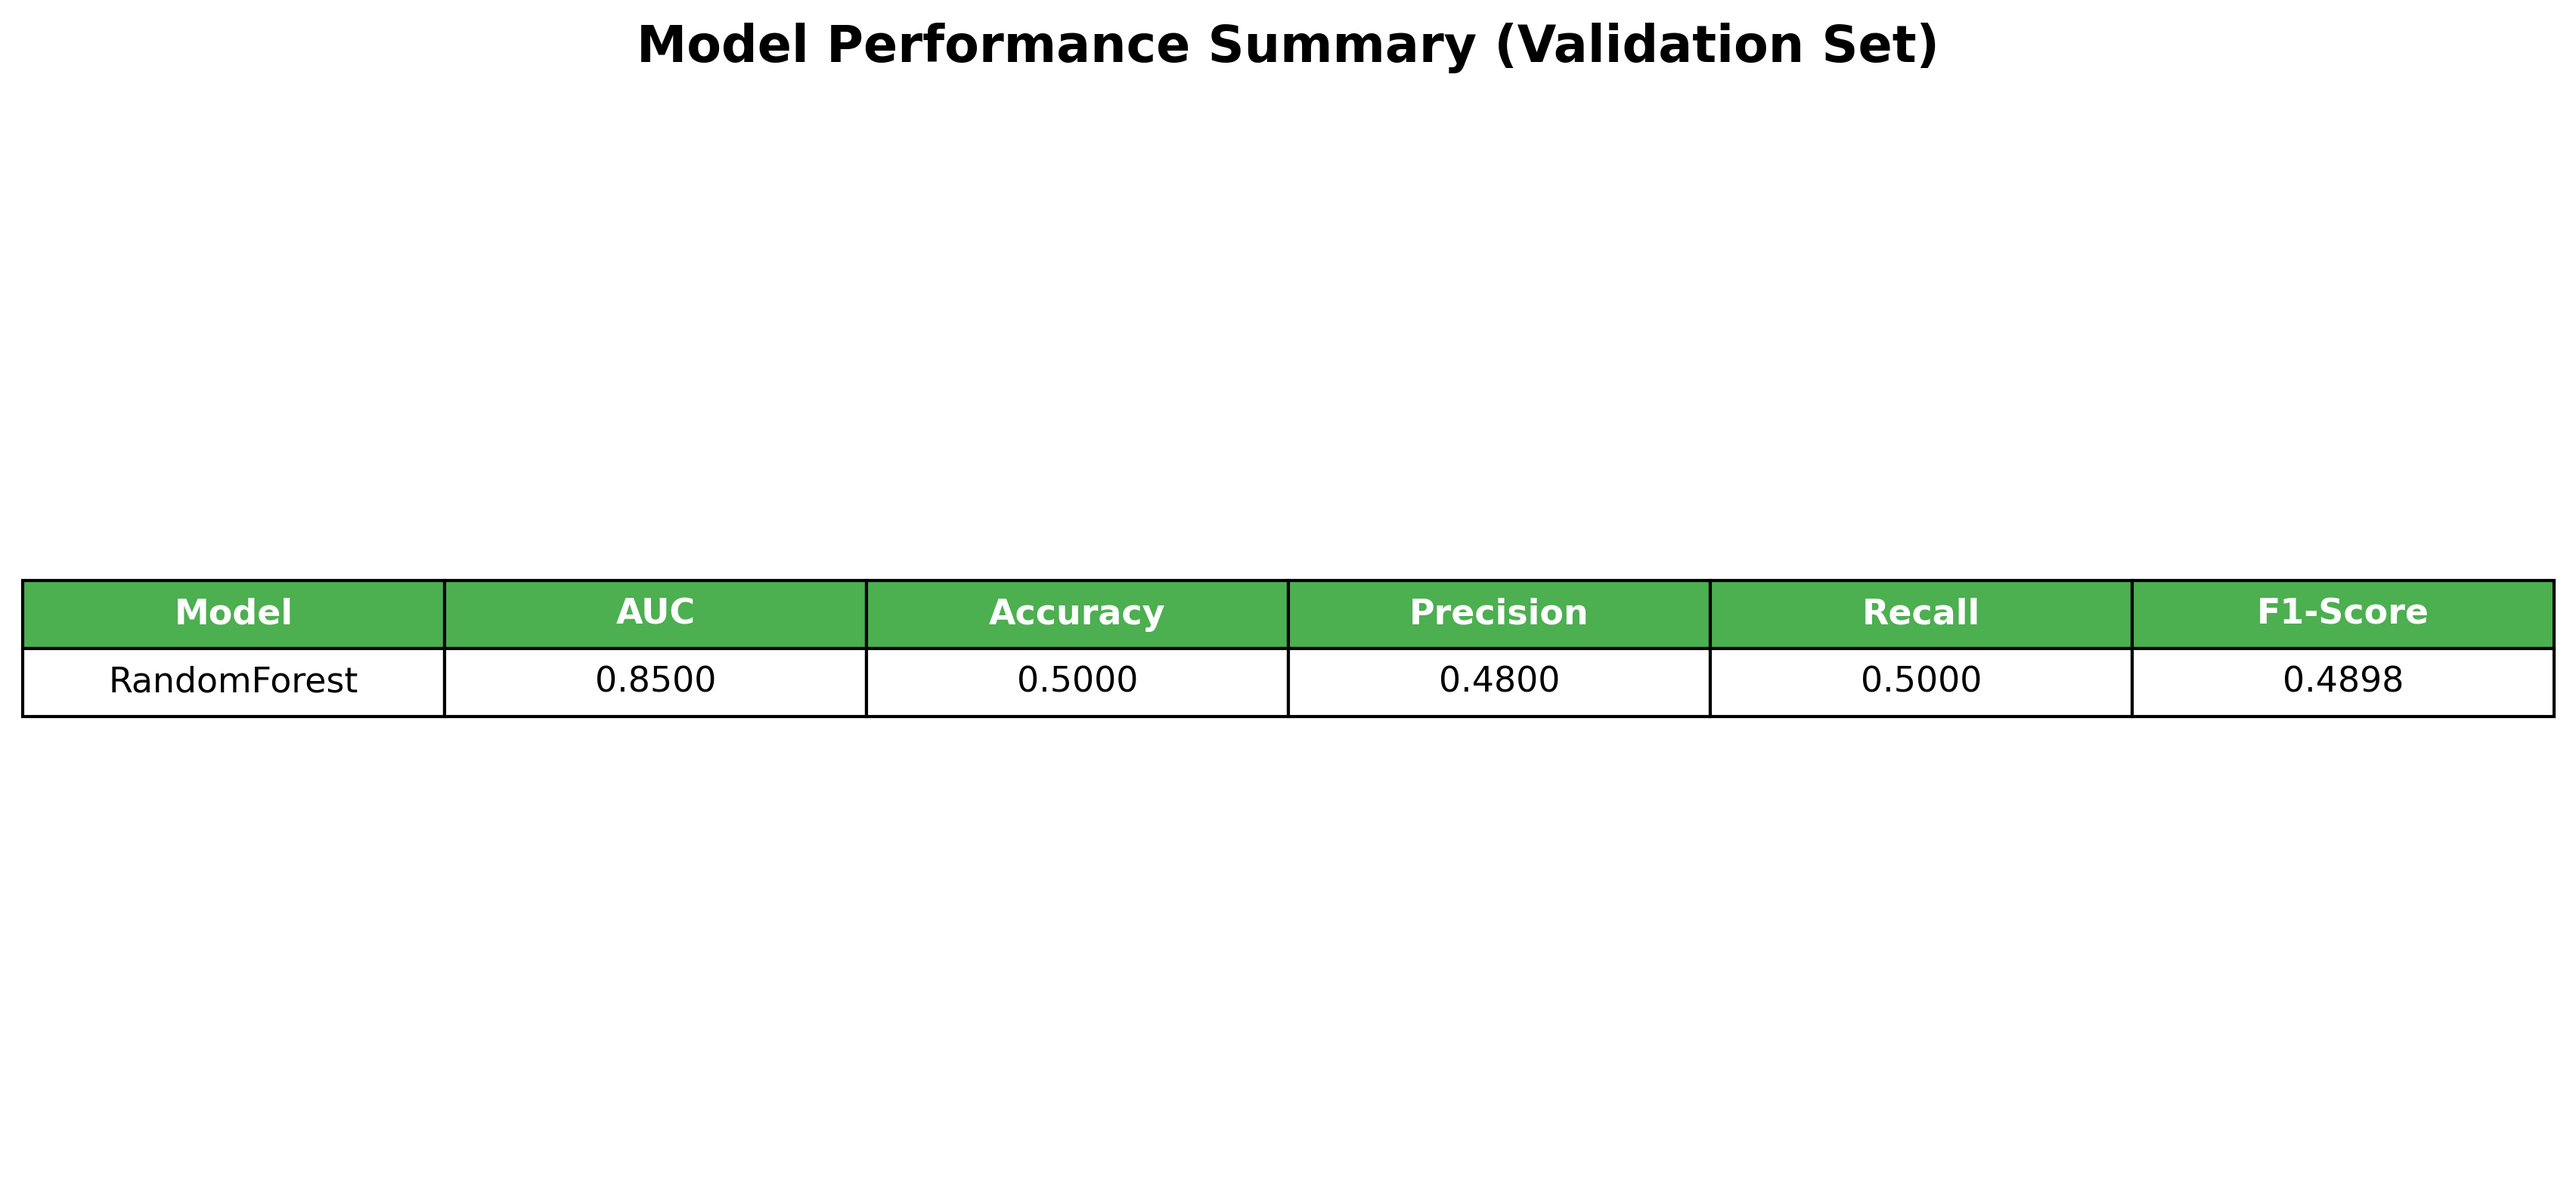
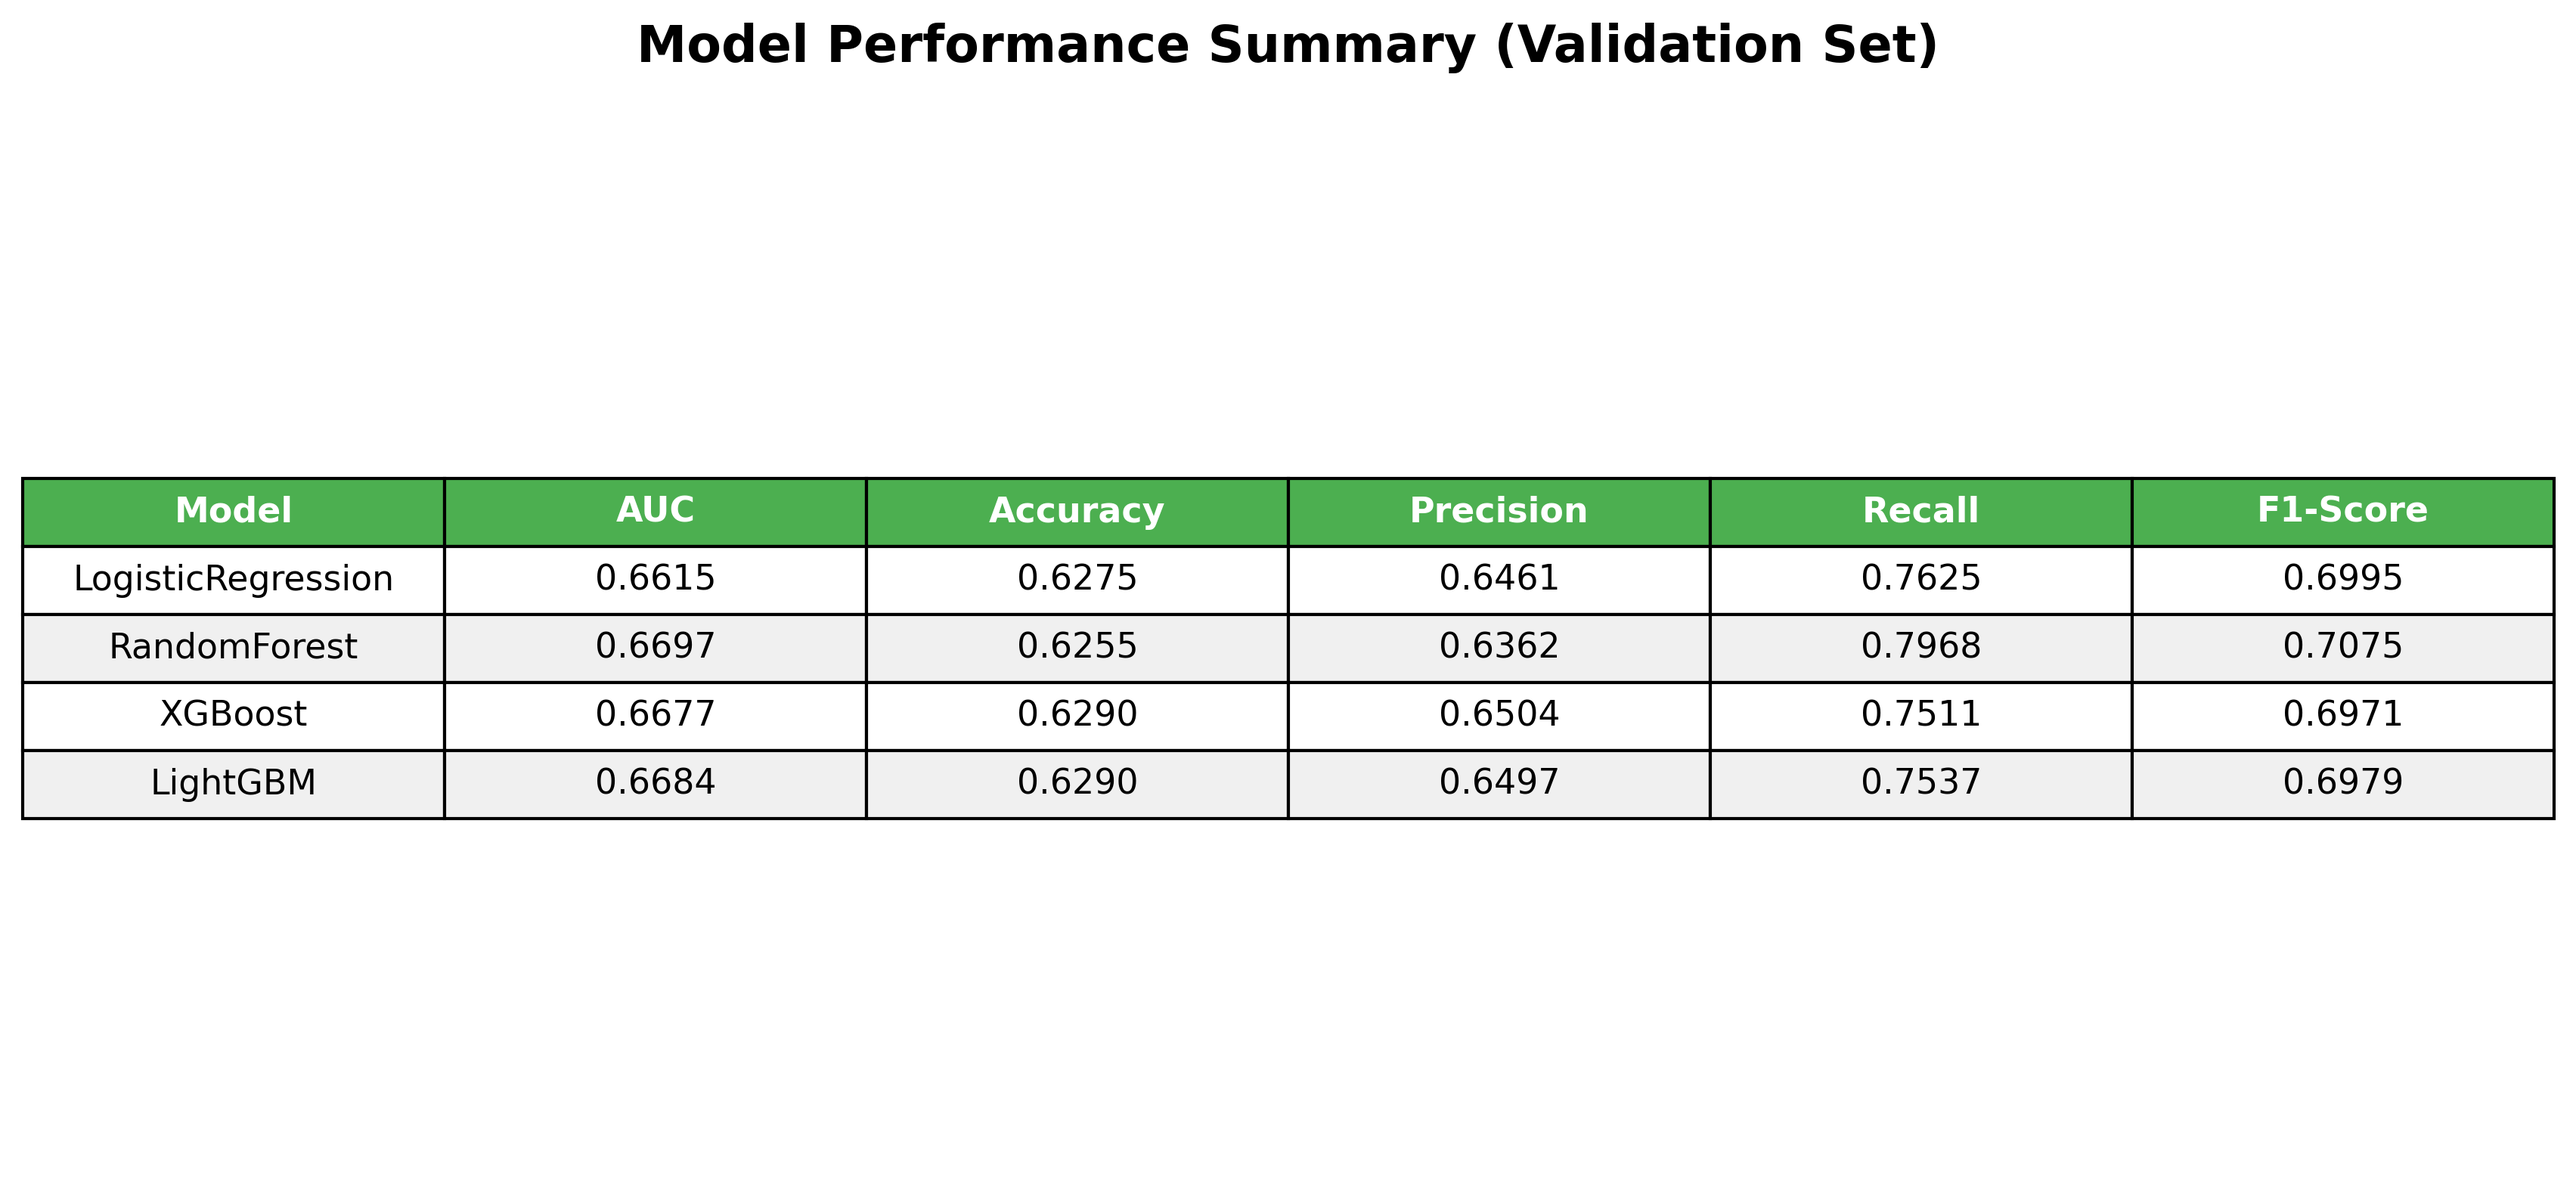
feat: reports
rerun data science pipeline and regenerate plots

Changed region(s): [[0.0, 0.3719, 0.9956, 0.7128]]

diff --git a/README.md b/README.md
@@ -88,10 +88,6 @@ We implemented a systematic bias detection approach with:
 ## What Biases Were Discovered - Statistical Evidence
 
 ### Key Statistical Findings
-Our comprehensive analysis revealed significant demographic patterns:
-
-![SHAP Summary Analysis](reports/figures/shap_summary.png)
-*SHAP analysis revealing feature importance patterns across demographic and creditworthiness variables.*
 
 ### Feature Importance Analysis Across Models
 
@@ -238,7 +234,7 @@ Successful test execution ensures:
 - ✅ Error handling gracefully manages edge cases without masking bias
 
 **Expected Test Output:**
-![Test Execution Results](reports/figures/test_results_screenshot.png)
+![Test Execution Results](docs/sample-unit-test.png)
 *Complete test suite execution showing all 72 tests passing, validating the integrity of the bias detection pipeline across data processing, model training, prediction, visualization, and orchestration components.*
 
 ## Usage
